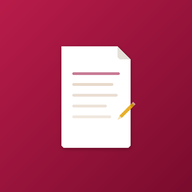
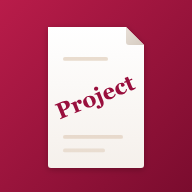
아이콘 새로 — 메모지 위로 'Project' 글자가 우상향
글자는 Georgia Bold 윤곽선으로 넣어 기기 글꼴과 관계없이 같게 보인다. 연필 장식은 뺐다.

Changed region(s): [[0.25, 0.125, 0.75, 0.875]]

diff --git a/sw.js b/sw.js
@@ -1,4 +1,4 @@
-const CACHE_NAME = 'memo-v133';
+const CACHE_NAME = 'memo-v134';
 const ASSETS = [
   '/memo-app/',
   '/memo-app/index.html',
